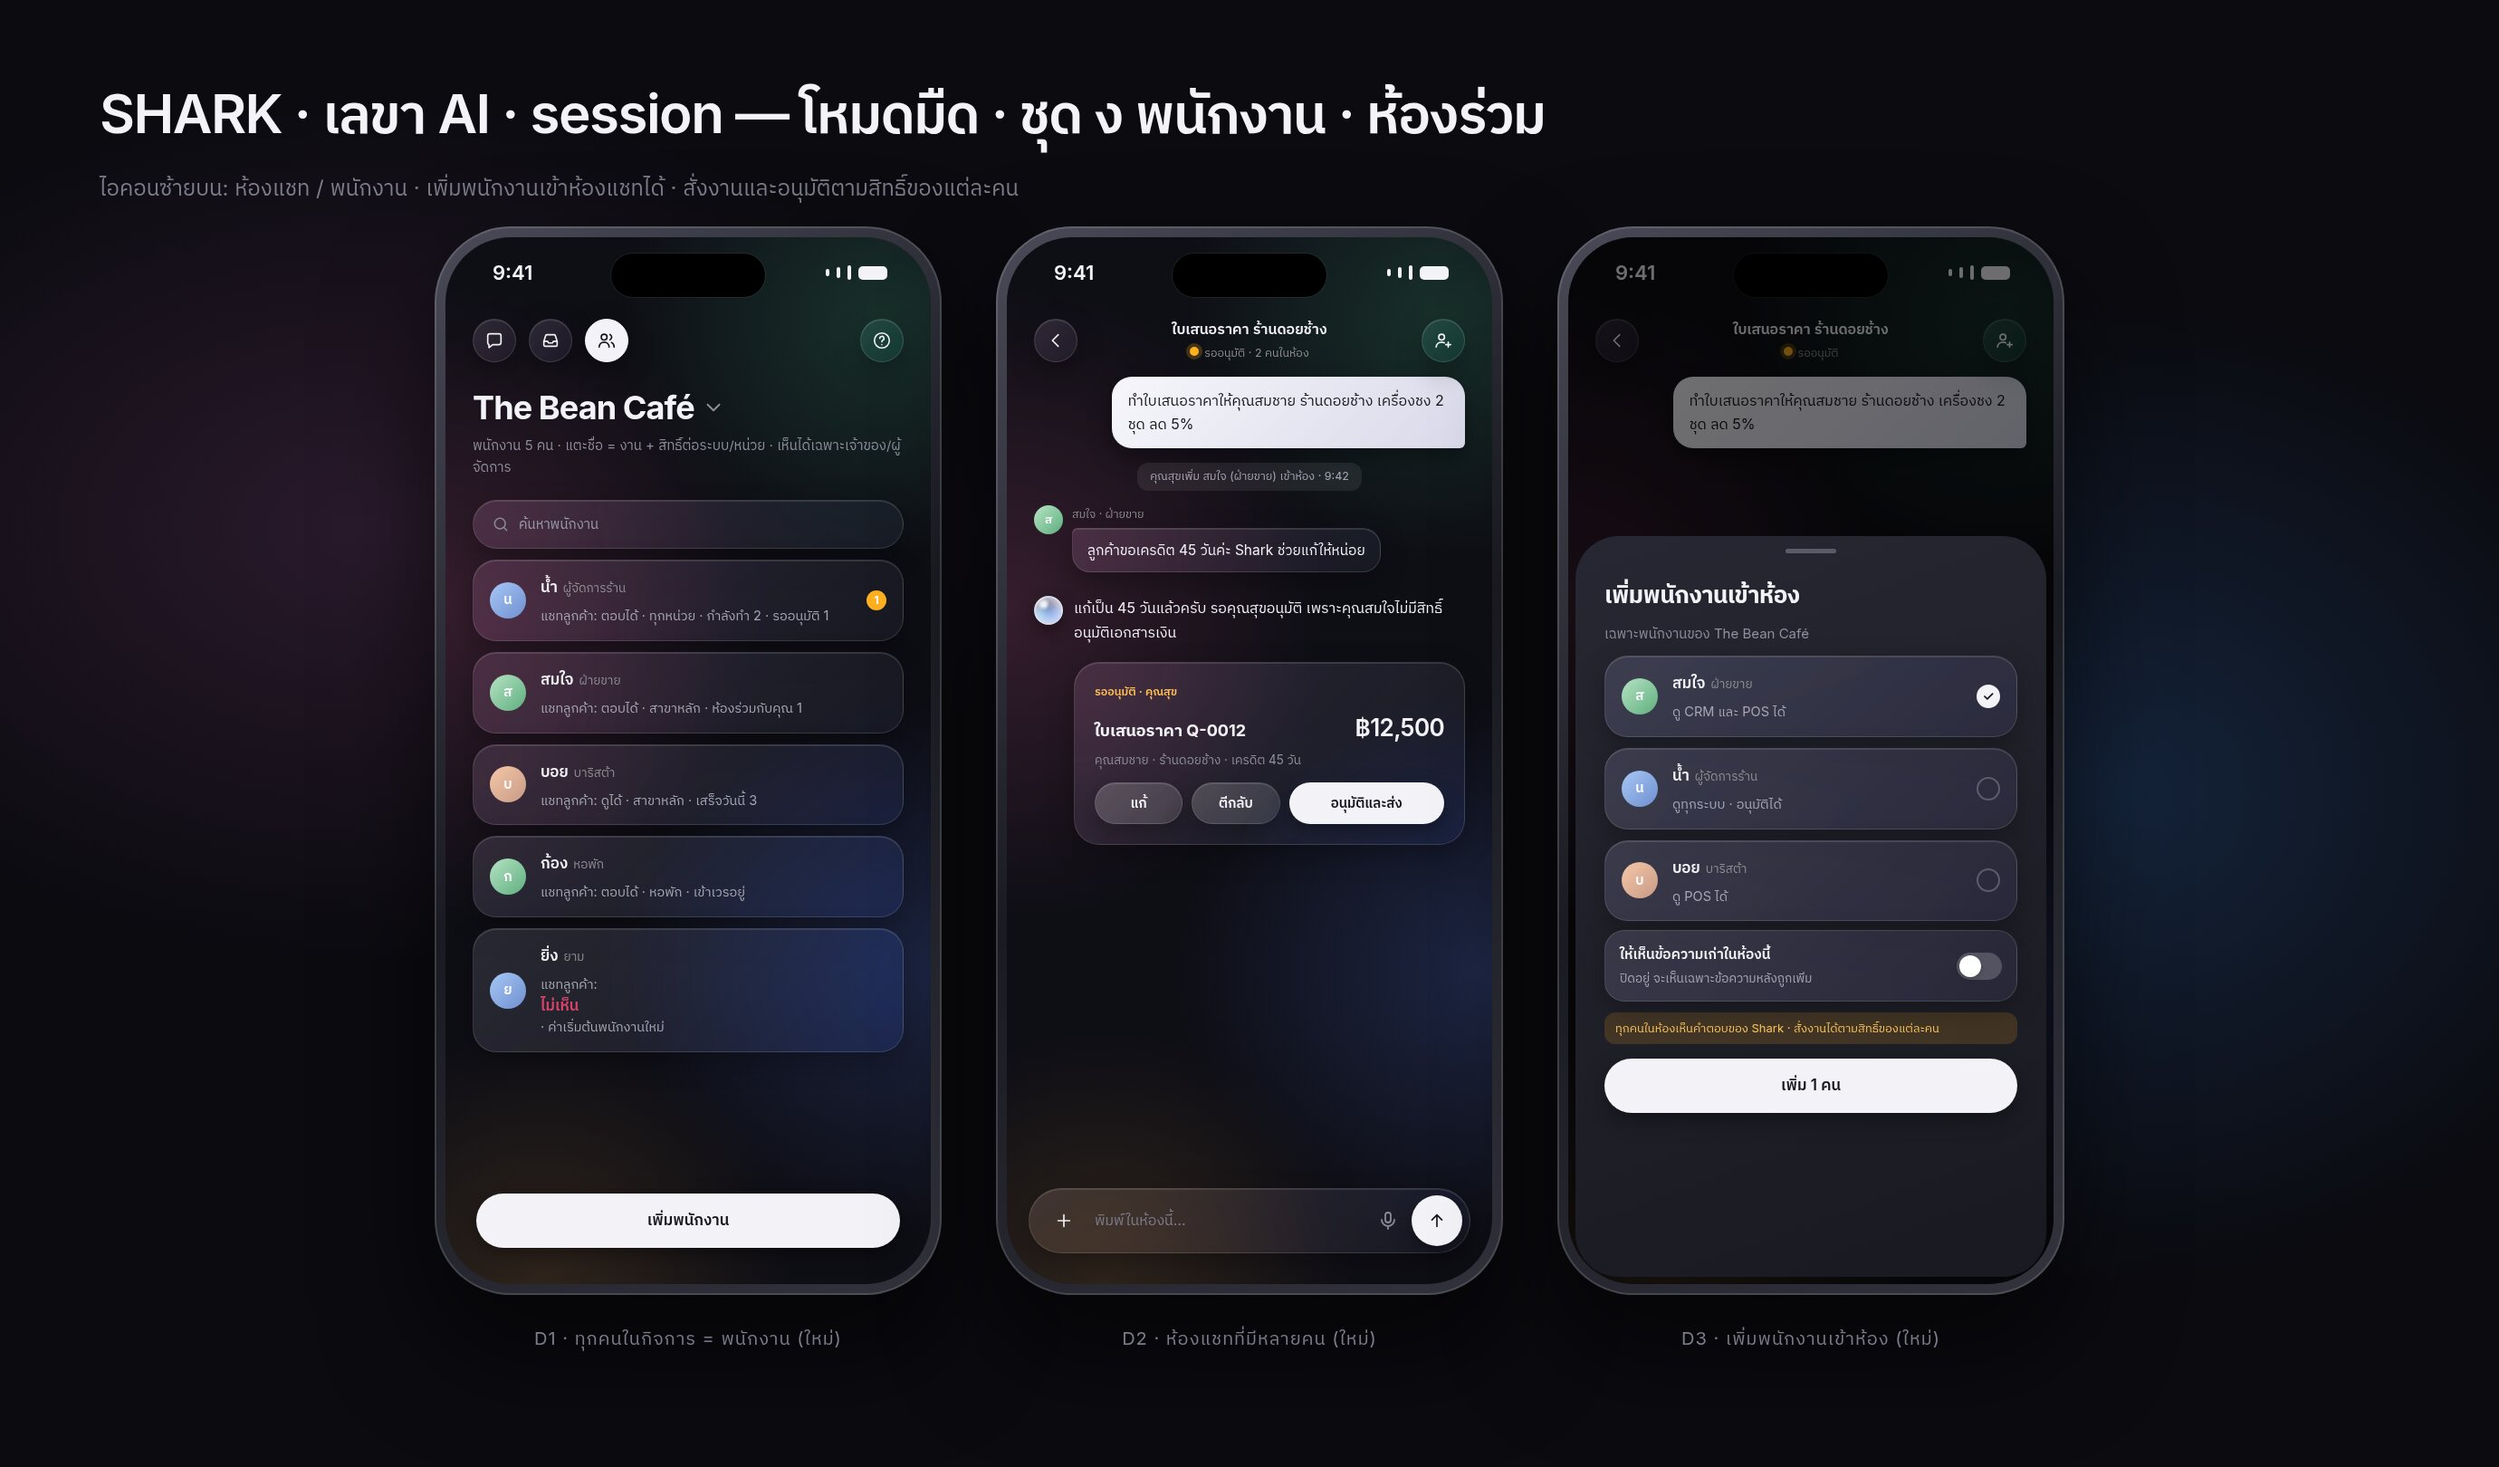
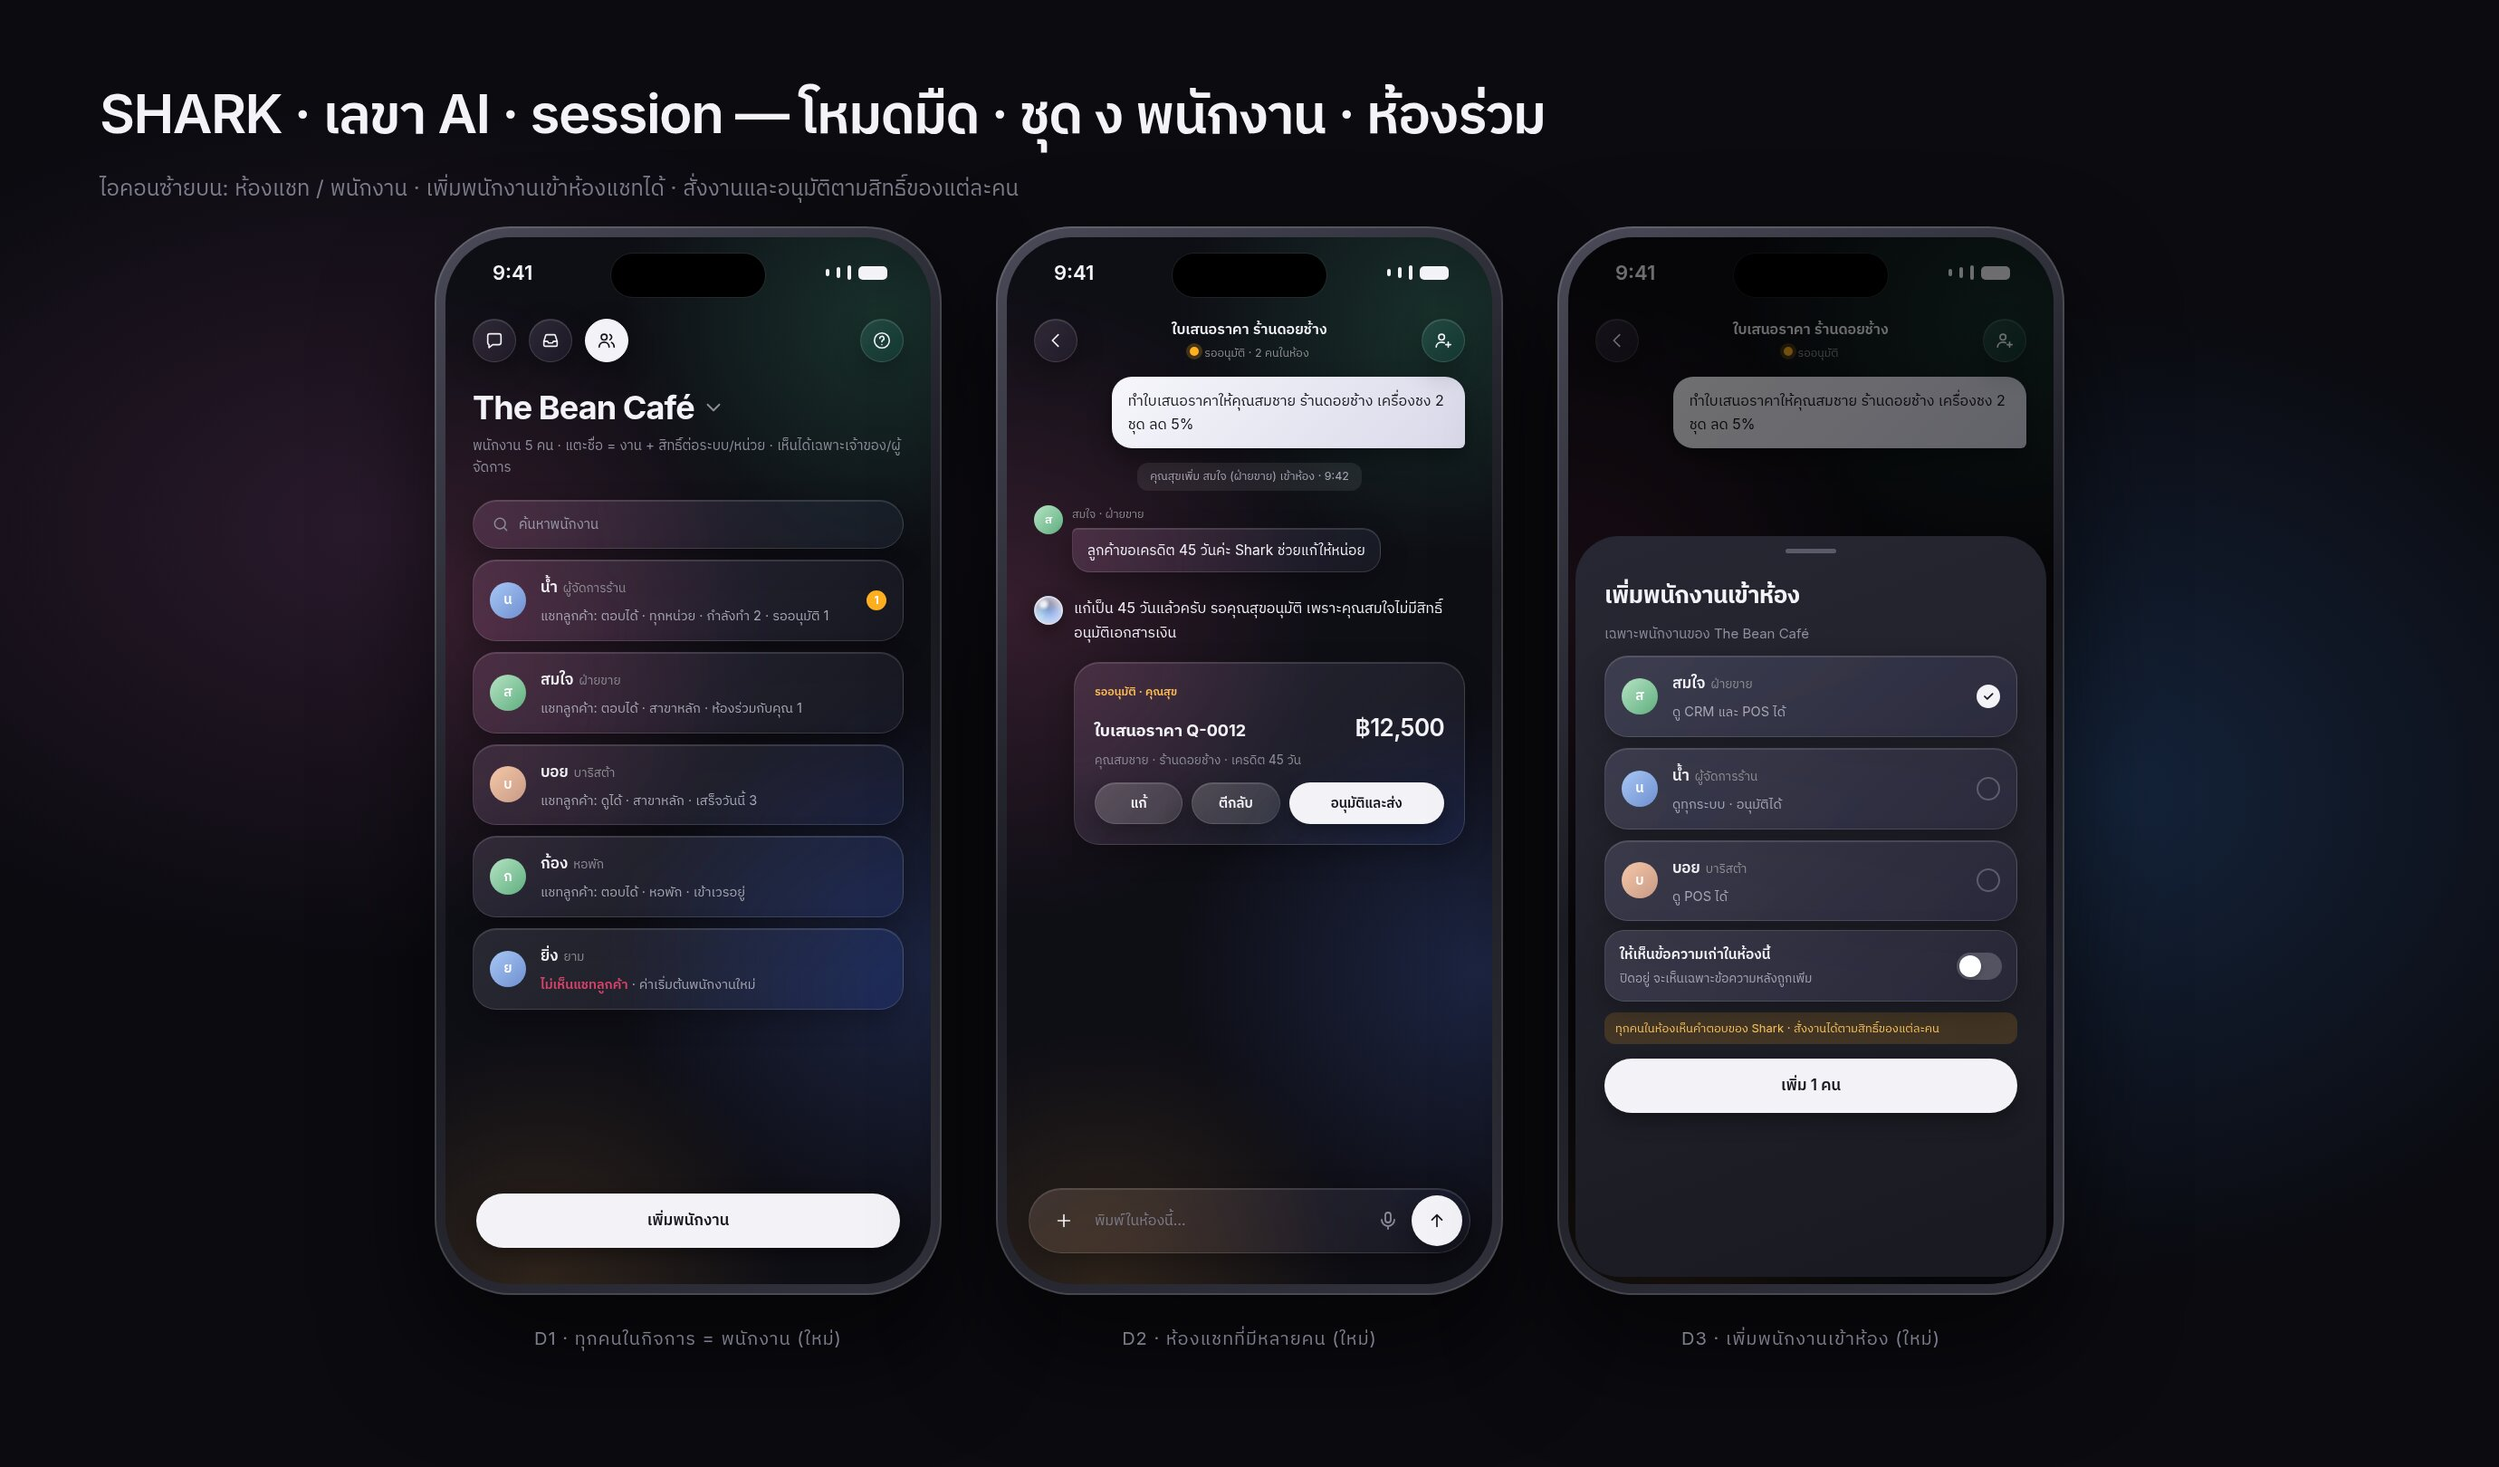
ledger(secretary): D1 chat-permission label fix

Changed region(s): [[0.187, 0.6481, 0.3739, 0.7407]]

diff --git a/ledger/design-secretary/gen_sec.py b/ledger/design-secretary/gen_sec.py
@@ -394,7 +394,7 @@ D1=f'''<div class="pg">{TOPT}
  {staff('h3','ส','สมใจ','ฝ่ายขาย','แชทลูกค้า: ตอบได้ · สาขาหลัก · ห้องร่วมกับคุณ 1')}
  {staff('h1','บ','บอย','บาริสต้า','แชทลูกค้า: ดูได้ · สาขาหลัก · เสร็จวันนี้ 3')}
  {staff('h3','ก','ก้อง','หอพัก','แชทลูกค้า: ตอบได้ · หอพัก · เข้าเวรอยู่')}
- {staff('h2','ย','ยิ่ง','ยาม','แชทลูกค้า: <b style="color:#d8436a">ไม่เห็น</b> · ค่าเริ่มต้นพนักงานใหม่')}
+ {staff('h2','ย','ยิ่ง','ยาม','<i style="font-style:normal;color:#d8436a;font-weight:600">ไม่เห็นแชทลูกค้า</i> · ค่าเริ่มต้นพนักงานใหม่')}
  </div><div class="foot"><div class="btn1">เพิ่มพนักงาน</div></div>'''
 
 D2=f'''<div class="pg">{bar(BACK,'ใบเสนอราคา ร้านดอยช้าง<small><span class="dot wait"></span>รออนุมัติ · 2 คนในห้อง</small>',ADDP)}
